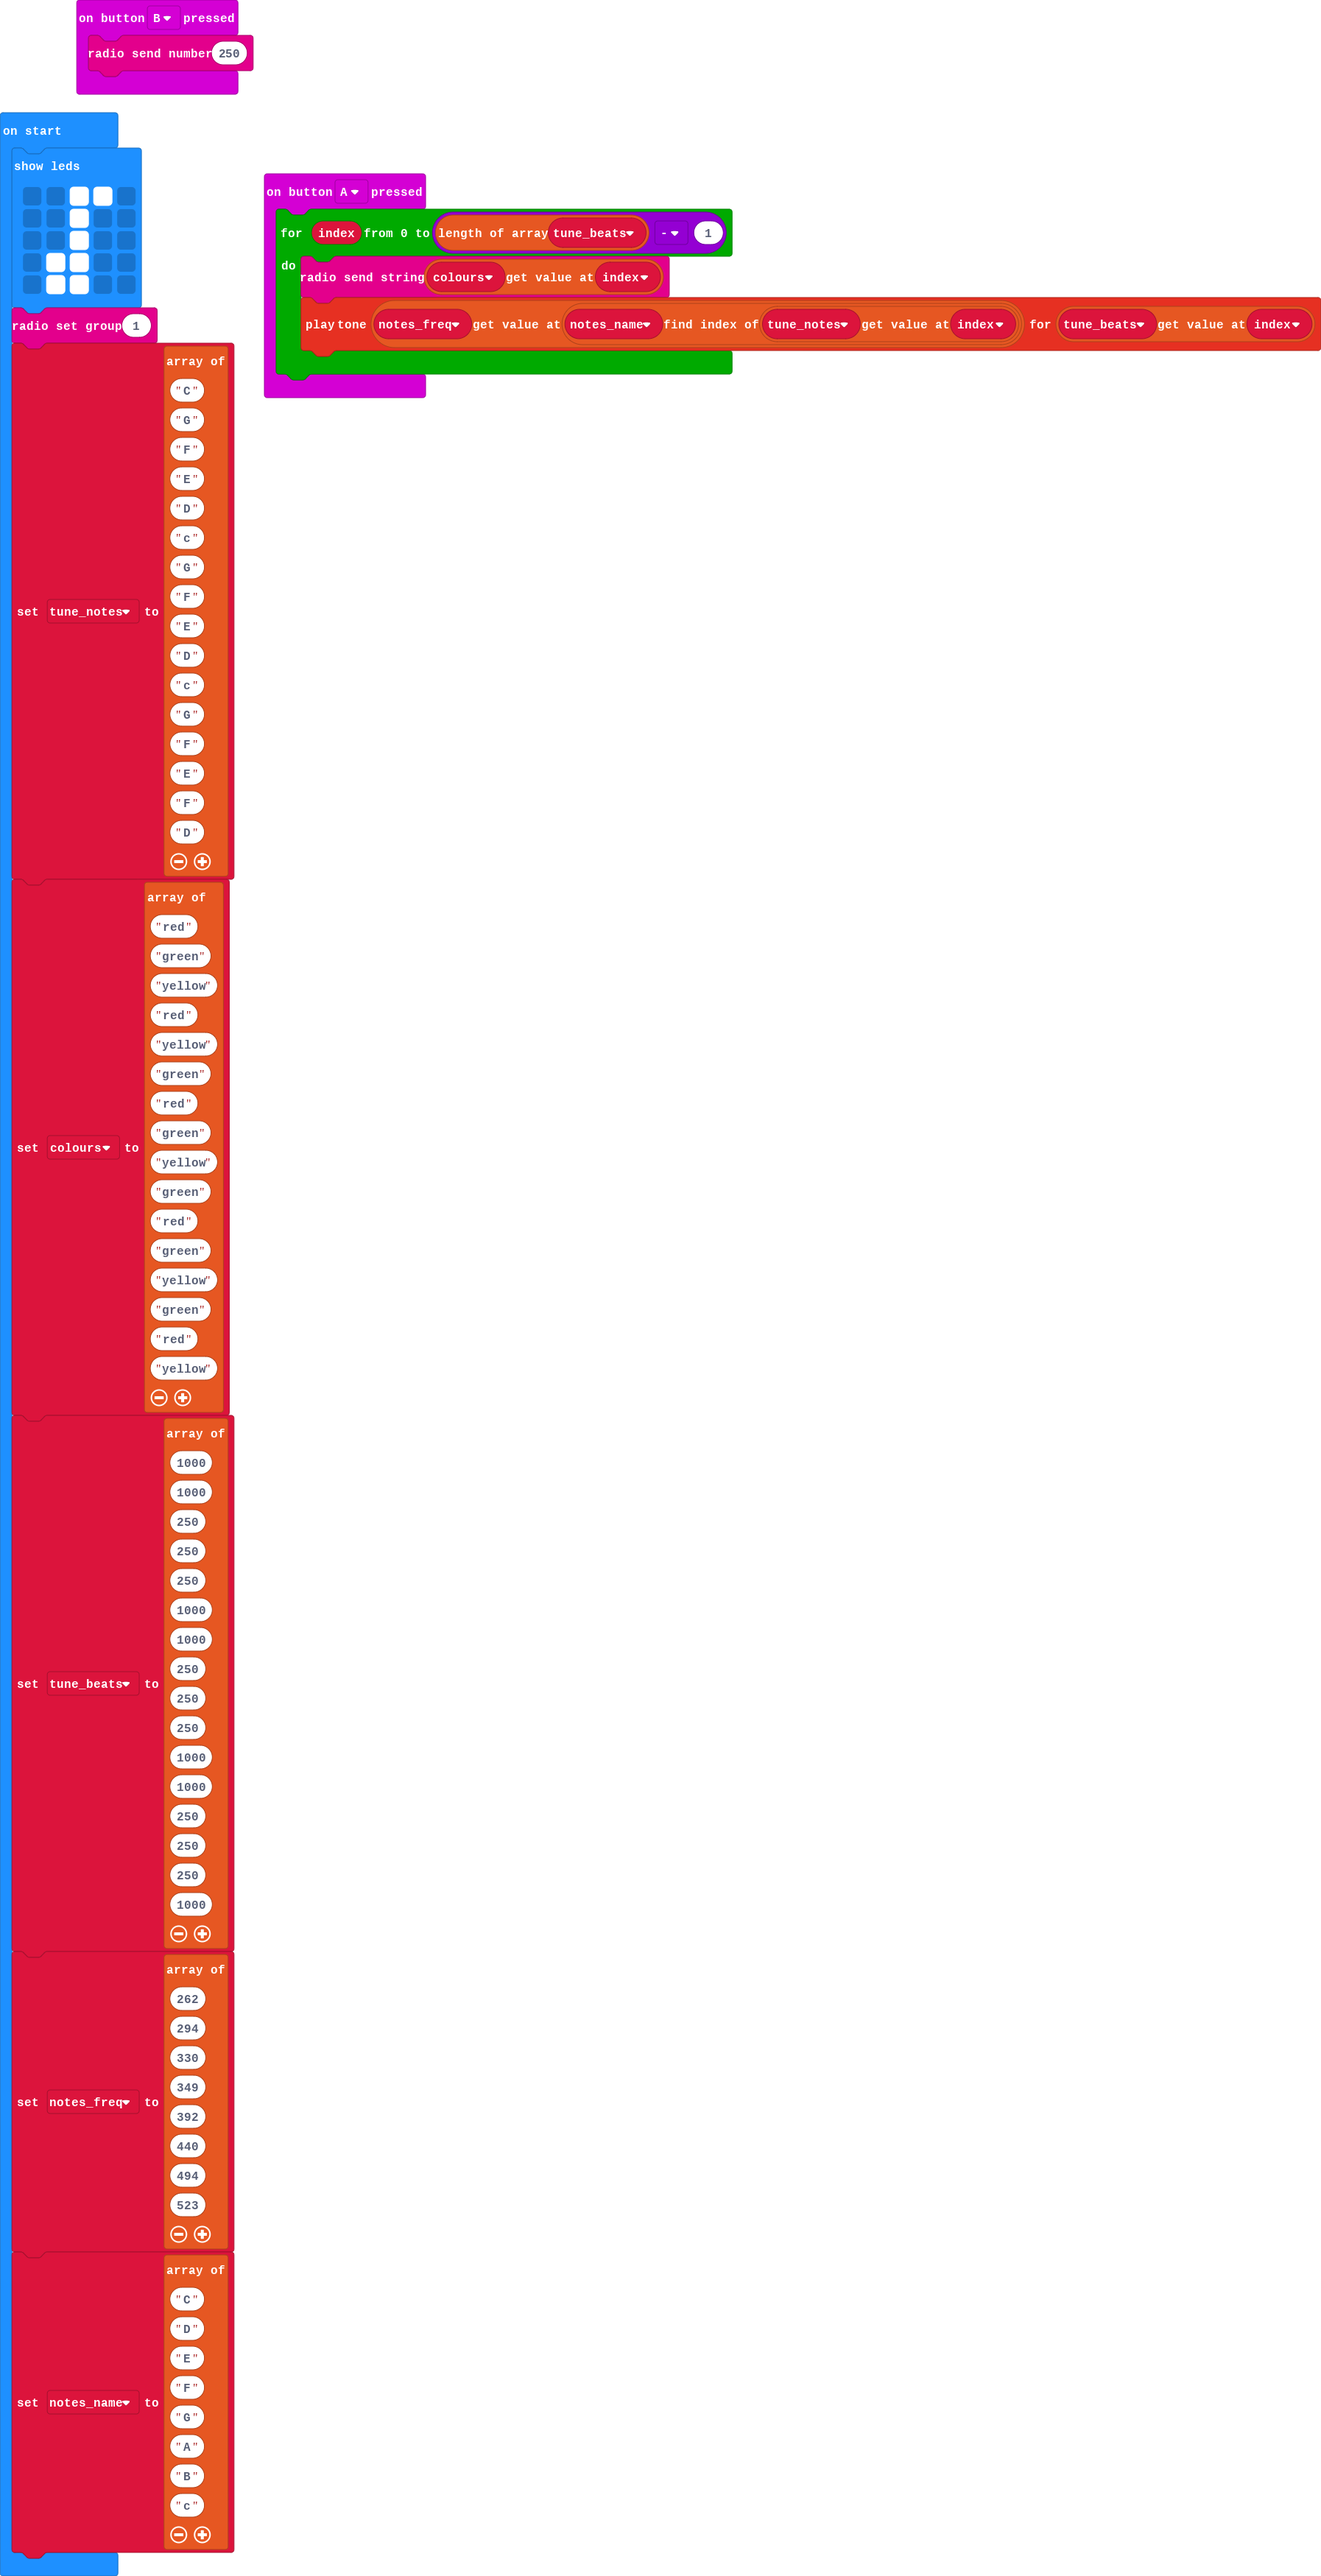
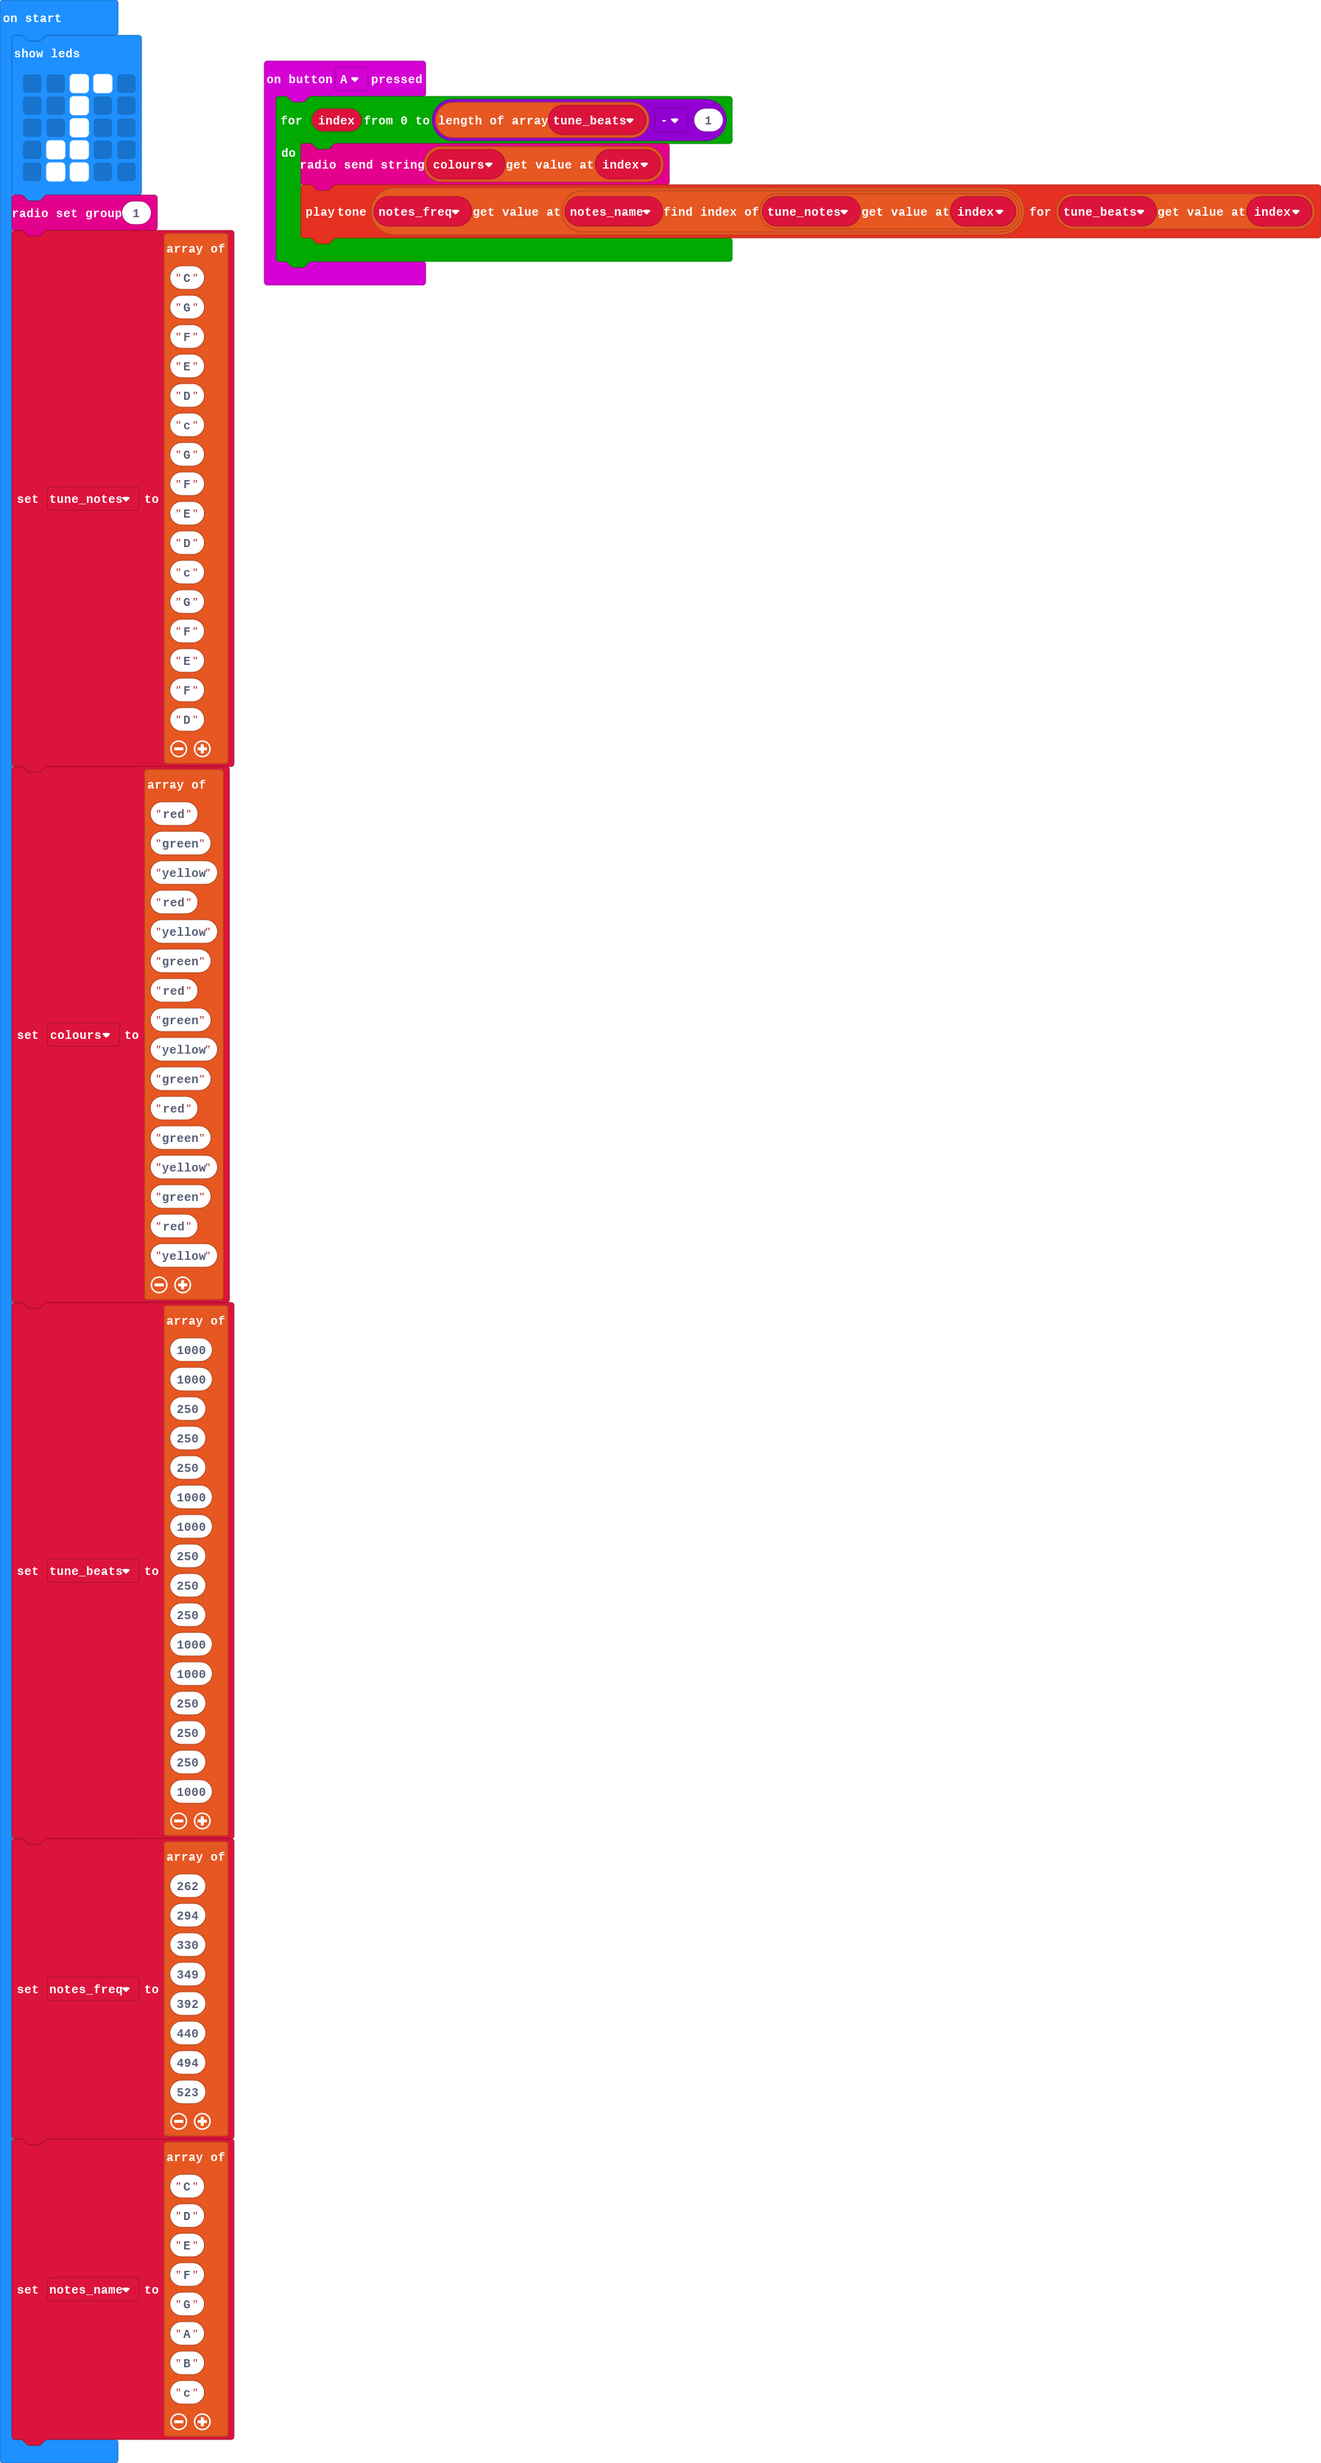
Update main.blocks, main.ts

diff --git a/main.ts b/main.ts
@@ -1,6 +1,3 @@
-input.onButtonPressed(Button.B, function () {
-    radio.sendNumber(250)
-})
 input.onButtonPressed(Button.A, function () {
     for (let index = 0; index <= tune_beats.length - 1; index++) {
         radio.sendString("" + (colours[index]))
